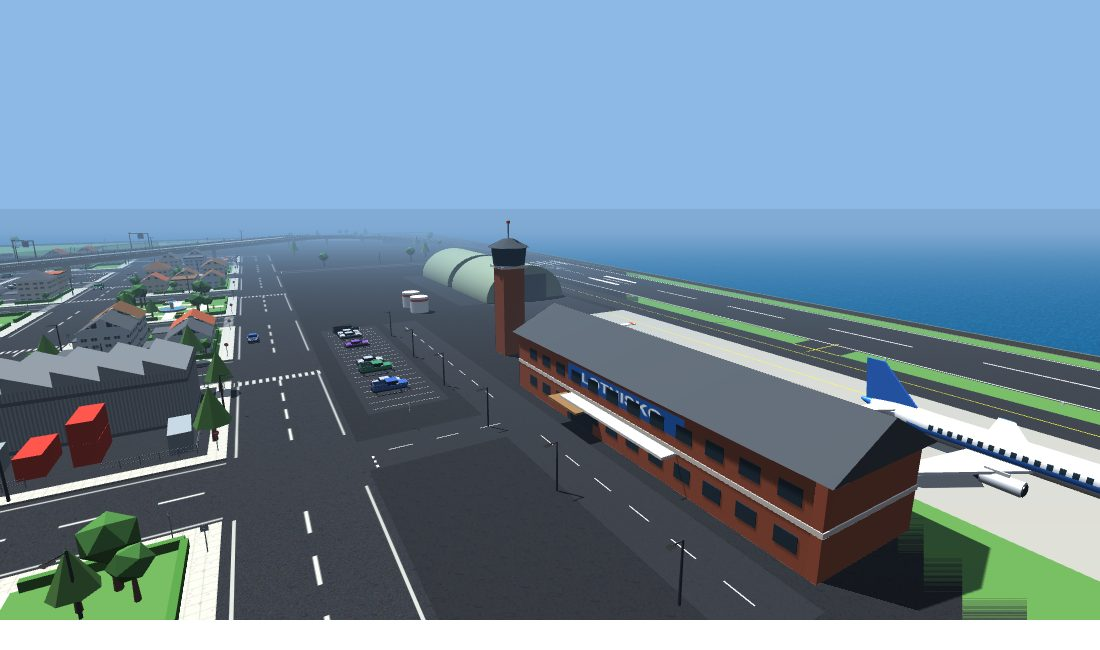
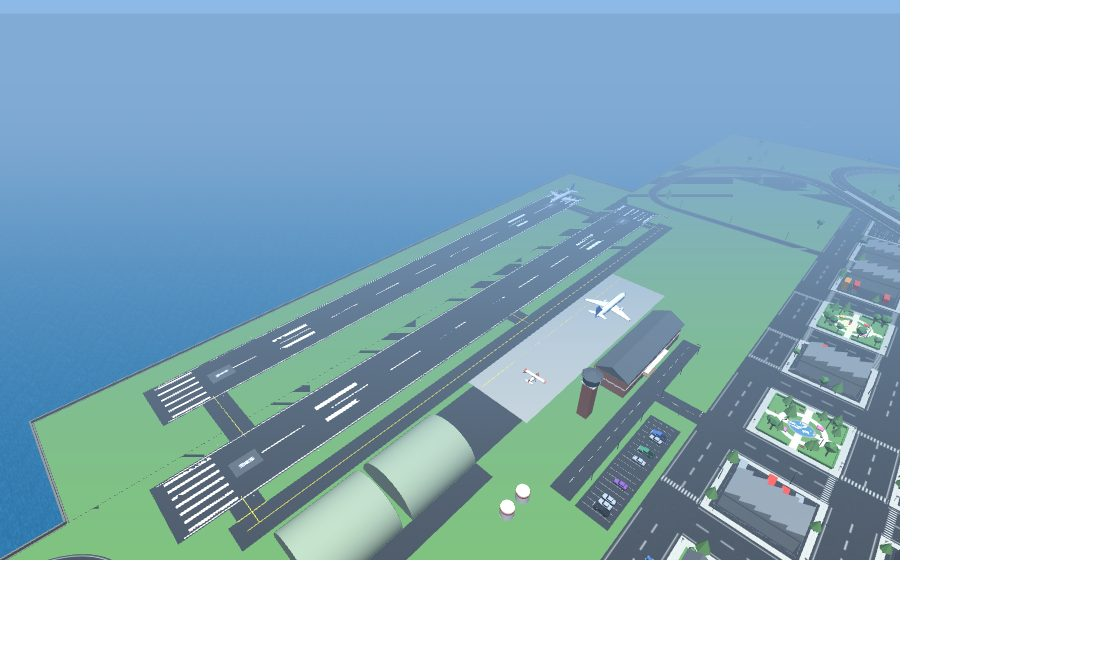
README i CLAUDE.md: łodzie i ruch lotniczy NPC, drugie pasy, broń zza ramienia, ślizg po ścianie, menu deweloperskie, ekran ładowania i pauzy; nowe zrzuty

diff --git a/CLAUDE.md b/CLAUDE.md
@@ -23,7 +23,7 @@ Brak bundlera: `index.html` ładuje zwykłe `<script>` w kolejności z `loadorde
 | physics-world.js | świat cannon, materiały, statyczne kolizje w komórkach, poprawka `computeAABB` |
 | signs.js | znaki drogowe: tarcze, słupki, `placeSign`, `signSpotFree` |
 | car-types.js | typy aut (CAR_TYPES: sedan, pickup, sport, bike) — napęd, zawieszenie, bryła, części modelu (carParts; spojler tylko sport), kierunkowskazy (`addIndicators`, `indBlinkOn`) |
-| airport.js | dwa lotniska: na wysepce (`AIRPORT`, pas wzdłuż x, z ≈ −650…−810, dojazd z przystani) i miejskie w zachodnim pasie wyspy głównej (`AIRPORT_W`, `buildAirportWest`, pas 18/36 wzdłuż z, dojazd z alei j=6); miejsca samolotów w `AIRPORT_PLANES` (po odrzutowcu i awionetce na każdym); strzałki nad pasami: `RUNWAYS` / `runwayMarkers` w planes.js |
+| airport.js | dwa lotniska: na wysepce (`AIRPORT`, pas wzdłuż x, z ≈ −650…−810, dojazd z przystani) i miejskie w zachodnim pasie wyspy głównej (`AIRPORT_W`, `buildAirportWest`, pas 18/36 wzdłuż z, dojazd z alei j=6); drugie pasy (`runway2`, `buildRunway2` → `NPC_RUNWAYS`) dla ruchu lotniczego NPC; miejsca samolotów w `AIRPORT_PLANES` (po odrzutowcu i awionetce na każdym); strzałki nad pasami: `RUNWAYS` / `runwayMarkers` w planes.js |
 | hospital.js | szpital w południowym pasie podmiejskim (`HOSPITAL`): dojazd z i=4, budynek, lądowisko, karetki, parking; odrodzenie gracza `HOSPITAL_SPAWN` (`respawnPlayer`) |
 | islands.js | wyspy i morze: `WATER_Y`, `SEA_FLOOR`, `ISLANDS`, `isLand`/`islandAt`, `PIERS`, `BOAT_OBSTACLES`, `BOAT_SPOTS`, `PORTS`; bryły wysp w fizyce (dno = `groundBody` na `SEA_FLOOR`), nabrzeża z balustradą (przerwy `HARBOR_GAPS`), woda (`updateSea`), port (`buildMainPort`), przystań wysepki, `updateWaterHazards` (wyciąganie z wody) |
 | districts.js | zabudowa dzielnic (wieżowce, bloki, domki z działkami, parki, plac, galeria, stacja, przemysł); CB(kolor) = bufory scalane w jedną siatkę z kolorami wierzchołków |
@@ -35,13 +35,14 @@ Brak bundlera: `index.html` ładuje zwykłe `<script>` w kolejności z `loadorde
 | player.js / vehicle.js | postać gracza / prowadzalne auto (`chassisBody`, `vehicle`, `carModel`) |
 | traffic-npc.js | trasy NPC (`LOOPS`, `HWY_LOOPS`), modele i spawn aut NPC |
 | pedestrians.js | piesi NPC, przejścia |
-| weapons.js | broń, koło broni (Q) |
+| weapons.js | broń (pięści, kij, pistolet, karabin `auto`): modele w układzie „lufa +Z” na przegubie `Weapons.pivot` przed klatką (kij na ręce), `aiming()` → kamera zza ramienia (`aimK`, PPM = `adsK`), strzał `_fire` (promień z kamery przez środek ekranu, potem z lufy `_muzzle`), rozrzut `spread()`, odrzut, efekty `shotFx`, amunicja per broń `ammo[id]`, `infAmmo`; koło broni (Q) |
 | controls.js | klawisze (przebindowywalne, localStorage), mysz, menu |
 | sound.js | synteza dźwięku |
 | vehicle-entry.js | wsiadanie, wysiadanie, kradzież, atrapa głównego auta |
+| air-traffic.js | ruch lotniczy NPC na drugich pasach (`NPC_RUNWAYS` z airport.js, `busy` = pas zajęty): `airPlan` (rozbieg, wznoszenie, łuk Hermite'a do punktu podejścia 900 m przed progiem, ścieżka 7,5 %, dobieg), `airAlt`/`airSpeed` wg drogi `s`, zawrót na końcu pasa, drugi krąg przy zajętym pasie; pozycje to zwykłe obiekty `{x,y,z}` (testy w Node), kwaternion liczony ręcznie; `setAirCount` |
 | planes.js | samoloty (`PLANE_TYPES` jet/prop, `planes`): modele, ciało kinematyczne G_PLANE, `enterPlane`/`exitPlane`, lot `planeStep` (W/S gaz, strzałki = docelowe pochylenie/przechył, asystent lądowania), skok `bailOut` + `updateParachute` (prostokątna czasza, A/D skręt, W/S szybciej/hamowanie; wołane w main-loop po `updatePlayer`, kompensuje grawitację świata −20), samolot bez pilota (`p.free`), katastrofa `planeCrash` (gracz na wolne miejsce `safeSpot`, efekty `fxList`/`updateFx`, wrak `wreckEmit`, `camShake`, `Sound.boom`; pilot ginie) |
 | landmarks.js | detale lotnisk i portów (jedna scalona siatka `LM`, `buildLandmarks`): łukowy dach i okrągła wieża na wysepce, ceglany terminal/wieża i hangary łukowe w lotnisku miejskim, falochron z latarnią, zbiorniki, holownik, dziób statku, kasa, prom, jachty |
-| boats.js | łodzie (`BOAT_T`, `boats`): model, `enterBoat`/`exitBoat` (wysiadka tylko przy brzegu), `updateBoat`, `boatBlocked` (ląd, pomosty, statek, inne łodzie), `playerWorldPos()` |
+| boats.js | łodzie (`BOAT_T`, `boats`, `makeBoat`): model, `enterBoat`/`exitBoat` (wysiadka tylko przy brzegu), `updateBoat`, `boatBlocked` (ląd, pomosty, statek, inne łodzie), łodzie NPC (`b.npc`, `npcBoatStep`, cele w `NPC_BOAT_AREA` z wolną linią wody, `setNpcBoatCount`), `playerWorldPos()` |
 | birds.js | mewy (`BIRD_FLOCKS`, jedna dynamiczna siatka), zrzut balastu (`birdDrop`, plamy `splatAt` znikają po kilku s, trafienie gracza → `#birdSplat`) |
 | daynight.js | cykl dobowy (mgła × `fogMult` z debug) |
 | update-player.js / update-vehicle.js / update-npc.js | logika na klatkę |
@@ -49,16 +50,20 @@ Brak bundlera: `index.html` ładuje zwykłe `<script>` w kolejności z `loadorde
 | navigation.js | pełna mapa (M, `openMap`/`closeMap`, PPM = cel), graf ulic `NAV` (jednokierunkowa obwodnica dla aut, dojazdy szpitala, portu, wysepki), `navCompute` (Dijkstra, przeprawa przez `PORTS`), słup celu, trasa na minimapie |
 | main-loop.js | pętla `frame` i start (`LOADER.finish()` chowa ekran ładowania z index.html) |
 
-Tryby `mode`: foot / car / plane / boat. Klawisze: M = mapa (otwarta mapa też pauzuje), N = wyciszenie. Klatka (`main-loop.js`): pauza (`gameStarted && !pointerLocked && !debugOpen`) = tylko render; inaczej `updateSky` → `updateTrafficLights` → `updateNpcs` → `updatePedestrians` → `updateCar` → `updatePlane` / `updatePlanesIdle` → `updateBoat` / `updateBoatsIdle` → `updateBirds` → `updatePlayer` (nie pod otwartą czaszą) → `updateParachute` → `physicsStep` (po nim `updateWaterHazards`, `navUpdate`, `updateSea`; akumulator 1/60, maks. 2 kroki, porzuca zaległość) → interpolacja modeli (`_p0/_q0`, `alpha`) → `syncCar` → kamera → HUD → render. Teleport ciała = `noLerp`.
+Menu deweloperskie (controls.js): kontrolki `data-dbg` → `DBG_CTL` (get/set/fmt, `heavy` = zapis dopiero na `change`), przyciski `data-act` → `DBG_ACT`; globalne `gameSpeed` (mnoży dt w `frame`), `dayMult`, `npcFrozen`, `fovAdd`, `fogMult`, `godMode`. Ekran startowy = pauza (`#gate.paused` po starcie), ściągawka `buildGateKeys()`.
+
+Tryby `mode`: foot / car / plane / boat. Klawisze: M = mapa (otwarta mapa też pauzuje), N = wyciszenie. Klatka (`main-loop.js`): pauza (`gameStarted && !pointerLocked && !debugOpen`) = tylko render; inaczej `updateSky` → `updateTrafficLights` → `updateNpcs` → `updatePedestrians` (oba pomijane przy `npcFrozen`) → `updateCar` → `updatePlane` / `updatePlanesIdle` → `updateAirTraffic` → `updateBoat` / `updateBoatsIdle` → `updateBirds` → `updatePlayer` (nie pod otwartą czaszą) → `updateParachute` → `physicsStep` (po nim `updateWaterHazards`, `navUpdate`, `updateSea`; akumulator 1/60, maks. 2 kroki, porzuca zaległość) → interpolacja modeli (`_p0/_q0`, `alpha`) → `syncCar` → kamera → HUD → render. Teleport ciała = `noLerp`.
 
 ## Układ świata
 - Siatka 12×12: oś ulicy `L(i) = −264 + 44i`, `blockCenter(i) = L(i) + 22`, `ROAD_H = 7` (pół jezdni), `LOT = 30` (działka), `WALK_H = 0.25`.
-- `CITY_EDGE = 271`, pas podmiejski `BELT = 125`, brzeg wyspy (nabrzeże) `WALL_X = 397.5`. Dookoła morze (`WATER_Y = −0.9`); wysepka lotniska `ISLANDS[1]` (x ±190, z −812…−648). Port na północnym brzegu wyspy głównej, przystań na południowym brzegu wysepki.
+- `CITY_EDGE = 271`, pas podmiejski `BELT = 125`, brzeg wyspy (nabrzeże) `WALL_X = 397.5`. Dookoła morze (`WATER_Y = −0.9`); wysepka lotniska `ISLANDS[1]` (x ±190, z −862…−648, drugi pas na północy) i nasyp `ISLANDS[2]` lotniska miejskiego (x −454…−397, |z| ≤ 186; styk z wyspą bez nabrzeża: `HARBOR_GAPS` z `wall`). Port na północnym brzegu wyspy głównej, przystań na południowym brzegu wysepki.
 - Kurs h → kierunek (sin h, cos h); północ = −Z, wschód = +X; ruch prawostronny.
 - Autostrady: A1 na x = z, A2 na x = −z, pomost 7 m (A2 nad węzłem 14 m). Parametry w `HP`. Jezdnie `CW['A1+']` itd., węzeł koniczynowy w (0,0), terminale `HWY_TERM` w 4 narożnikach (0 SE, 1 SW, 2 NW, 3 NE). Budynki i detale omijają pas autostrady (`hwyCovered`, `hwyRectCovered`).
 
 ## Fizyka
 - Statyczne kolizje idą do złożonych ciał-komórek 48 m (`staticShape`, `staticBox`, `staticBoxQ`) — tysiące osobnych ciał zabijały wydajność.
+- Ślizg po ścianie (update-vehicle.js, `postStep`): przy kontakcie nadwozia ze statyczną ścianą i nosie w ścianę auto obraca się wzdłuż ściany i zachowuje prędkość styczną (bez tego koła w poprzek bariery zatrzymywały auto do zera). Obrażenia kraksy raz na 0,4 s (sound.js).
+- Styki dróg autostrad (`HWY_JOIN` w highways.js): wspólny kierunek końców pętli/kolektora i jezdni/odcinka końcowego — bez tego od spodu widać kliny nieba.
 - `fixComputeAABB` (physics-world.js) poprawia błąd cannon 0.6.2 w AABB obróconych kształtów. **Nie usuwać** — bez tego koła przepadają przez pomost.
 - Jedno prowadzalne auto (`chassisBody`, typ `carType`, zmiana typu w locie: `applyCarType`); tożsamość w `driving` (owner `player` | `stolen`). Pozostałe auta gracza i skradzione to atrapy w `parkedCars` (statyczne ciało + model) — przesiadka zamienia prowadzone auto w atrapę (`parkActive`/`takeOver`).
 - Podłoże: `groundBody` (płaszczyzna) leży na dnie `SEA_FLOOR = −14`, wyspy to osobne bryły z wierzchem y = 0. Ciała kinematyczne (NPC, piesi, samoloty, łodzie) mają maskę `~G_WORLD` (bez kosztownych par z bryłami wysp); `rayHit` używa grupy −1, żeby je trafiać.
